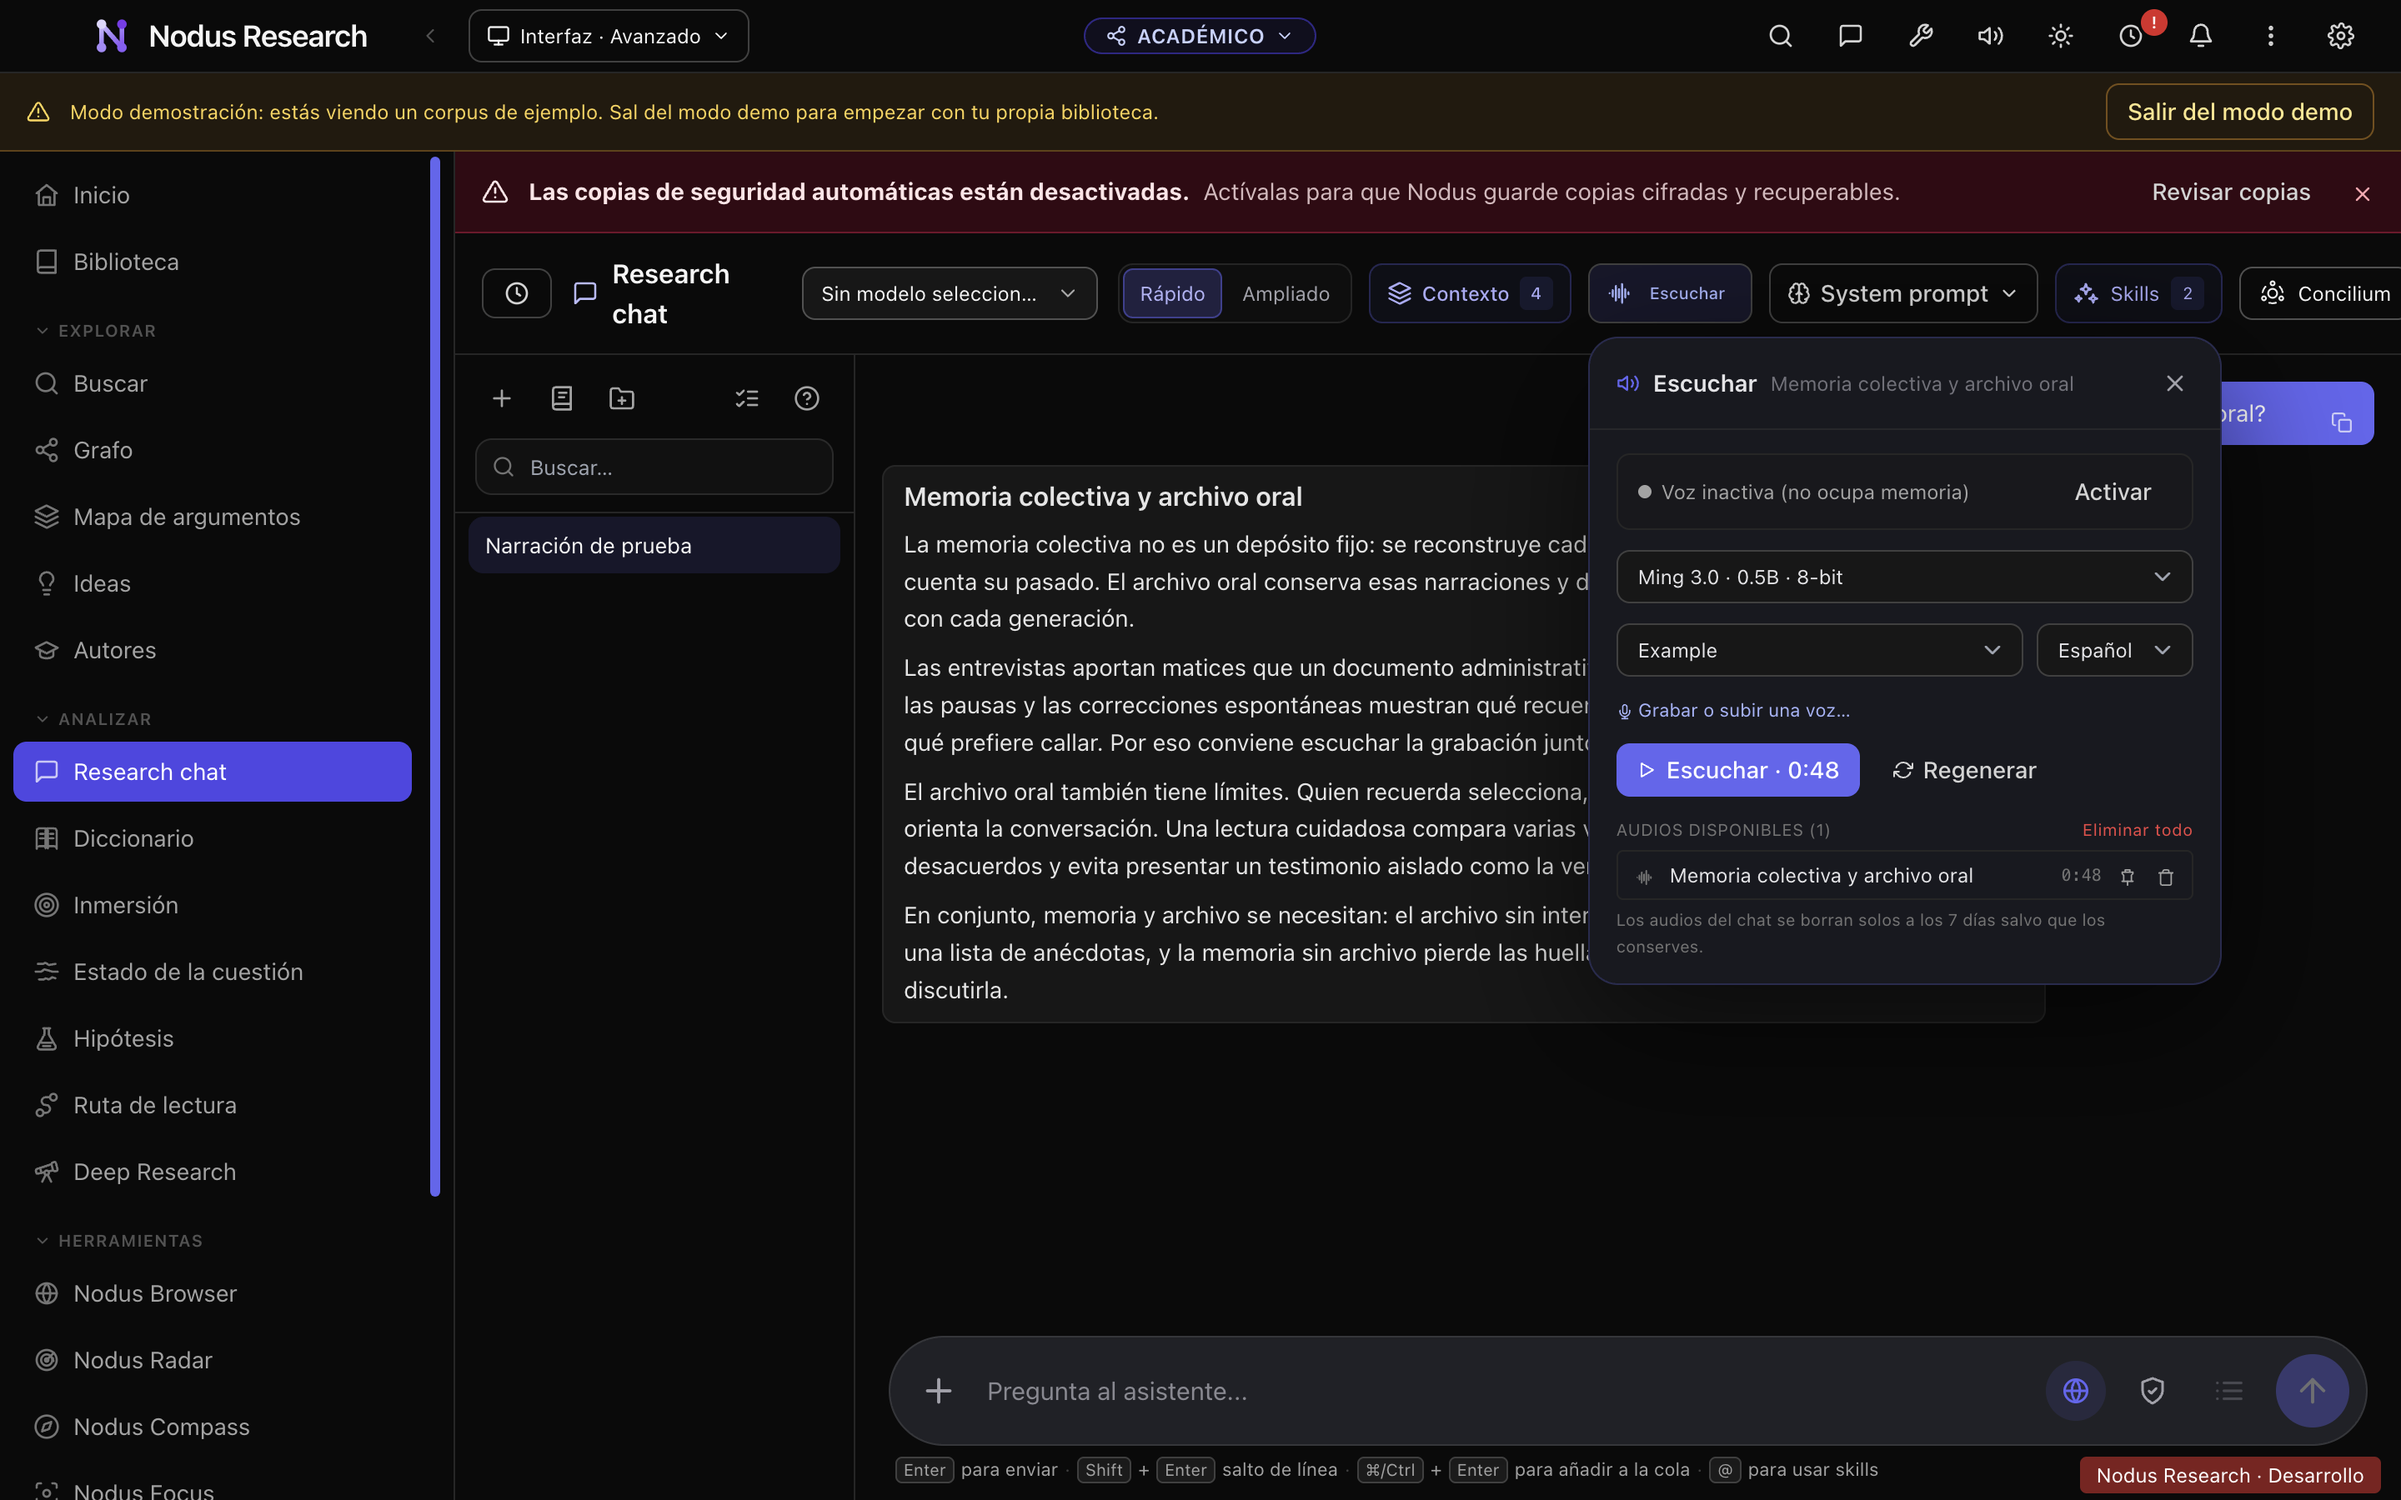
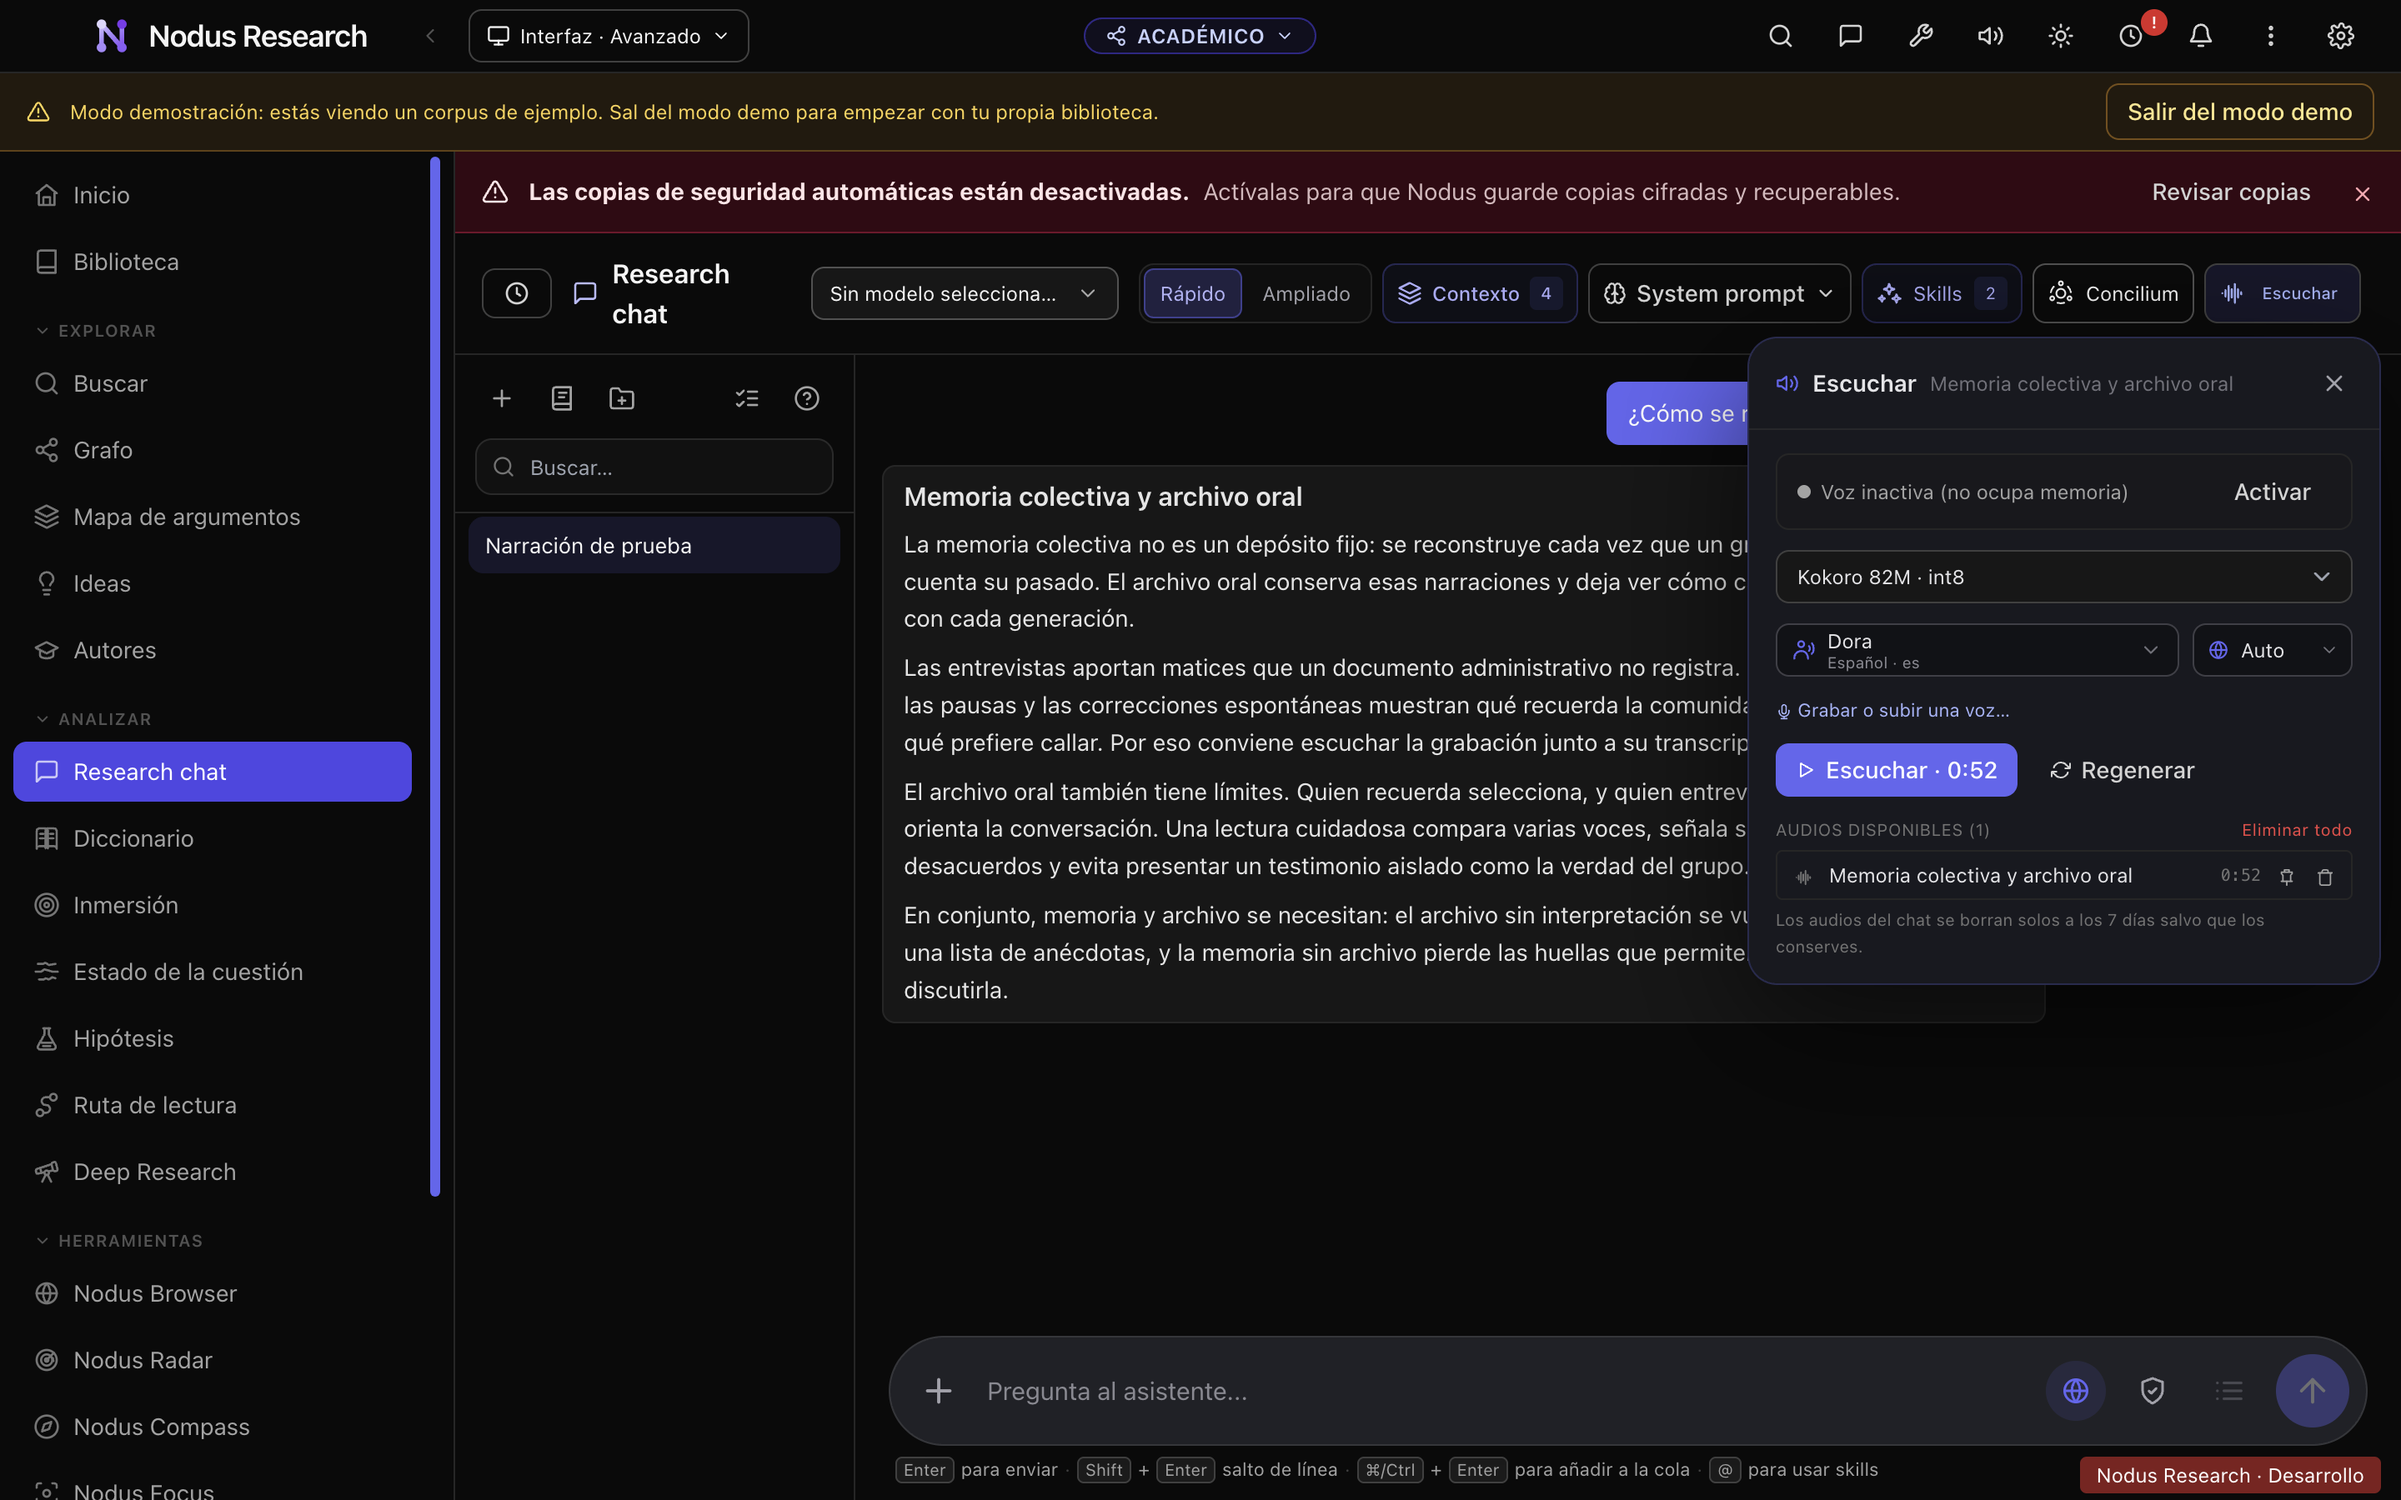
fix(narration): put the listen action last and align the header buttons
The Escuchar action is now the rightmost control in the Research chat header, after Concilium. All header controls, including Concilium, share the same 36px height; the action gaps and horizontal padding were tightened just enough to keep the row on one line without overlap at the usual window width. Closing the voice picker also clears any open filter panel.

diff --git a/src/views/ResearchAssistantModal.tsx b/src/views/ResearchAssistantModal.tsx
@@ -1256,14 +1256,6 @@ export function ResearchAssistantModal({
               <span className="chat-skills-count">{selectedCount}</span>
             </button>
           )}
-          {latestListenTarget && <ListenButton
-            testId="research-chat-header-listen"
-            toolbar
-            autoStart
-            size={15}
-            label={t('Escuchar')}
-            target={latestListenTarget}
-          />}
           <AcademicSecondary compact={simpleInterface} label="Opciones">
             {simpleInterface && chatModelControl}
           <ResearchSystemPromptControl prompts={systemPrompts.prompts} selectedId={systemPrompts.selectedId} disabled={(sending && !!adapter) || !systemPrompts.ready} onSelect={systemPrompts.select} refresh={systemPrompts.refresh} />
@@ -1275,6 +1267,14 @@ export function ResearchAssistantModal({
             {simpleInterface && <ResearchEffortControl model={selectedModel} value={thinkingEffort} onChange={setThinkingEffort} disabled={sending && !!adapter} />}
           </AcademicSecondary>
           {simpleInterface && <span className="research-simple-context text-xs text-neutral-500" title={authorizedSourcesSummary}>{[...CONTEXT_LAYERS.flatMap(layer => contextLayers[layer.id] ? [t(layer.label)] : []), ...(turnWebSearch !== 'off' ? [t('Búsqueda web')] : [])].join(' · ')}</span>}
+          {latestListenTarget && <ListenButton
+            testId="research-chat-header-listen"
+            toolbar
+            autoStart
+            size={15}
+            label={t('Escuchar')}
+            target={latestListenTarget}
+          />}
 
 
           </div>

diff --git a/src/components/narration/VoicePicker.tsx b/src/components/narration/VoicePicker.tsx
@@ -83,6 +83,7 @@ export function VoicePicker({ options, value, selectedName, onSelect, disabled =
 
   const close = (restoreFocus = true) => {
     setOpen(false);
+    setOpenFilter(null);
     if (restoreFocus) window.setTimeout(() => trigger.current?.focus({ preventScroll: true }));
   };
 
@@ -131,6 +132,7 @@ export function VoicePicker({ options, value, selectedName, onSelect, disabled =
     const outside = (event: MouseEvent) => {
       if (trigger.current?.contains(event.target as Node) || popup.current?.contains(event.target as Node)) return;
       setOpen(false);
+      setOpenFilter(null);
     };
     document.addEventListener('mousedown', outside);
     return () => document.removeEventListener('mousedown', outside);
@@ -165,6 +167,7 @@ export function VoicePicker({ options, value, selectedName, onSelect, disabled =
         if (open) close(false);
         else {
           setQuery('');
+          setOpenFilter(null);
           setOpen(true);
         }
       }}

diff --git a/src/views/researchAssistant.css b/src/views/researchAssistant.css
@@ -70,7 +70,7 @@
   display: inline-flex;
   flex-wrap: nowrap;
   align-items: center;
-  gap: 10px;
+  gap: 6px;
   width: max-content;
   min-width: 0;
 }
@@ -86,7 +86,7 @@
   min-width: 0;
   justify-content: center;
   gap: 6px;
-  padding: 0 10px;
+  padding: 0 8px;
   border-radius: 8px;
   font-size: 12px;
   font-weight: 500;
@@ -96,6 +96,9 @@
 }
 
 .research-assistant-actions > :is(.chat-skills-control, .concilium-control) { min-width: 0; max-width: 100%; }
+.research-assistant-actions .concilium-control { flex: 0 0 auto; }
+.research-assistant-actions .concilium-control > .concilium-trigger { box-sizing: border-box; height: 36px; padding: 0 8px; }
+.research-assistant-actions :is(.chat-skills-trigger, .research-system-prompt-trigger) { padding-left: 8px; padding-right: 8px; }
 .research-assistant-actions > button > svg { flex-shrink: 0; }
 .research-assistant-actions > button > span:last-child:not(.truncate),
 .research-assistant-actions .chat-skills-count,
